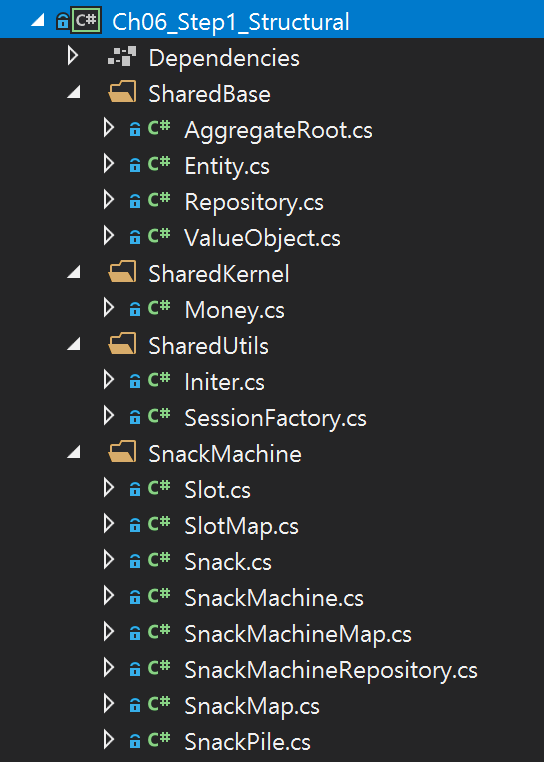
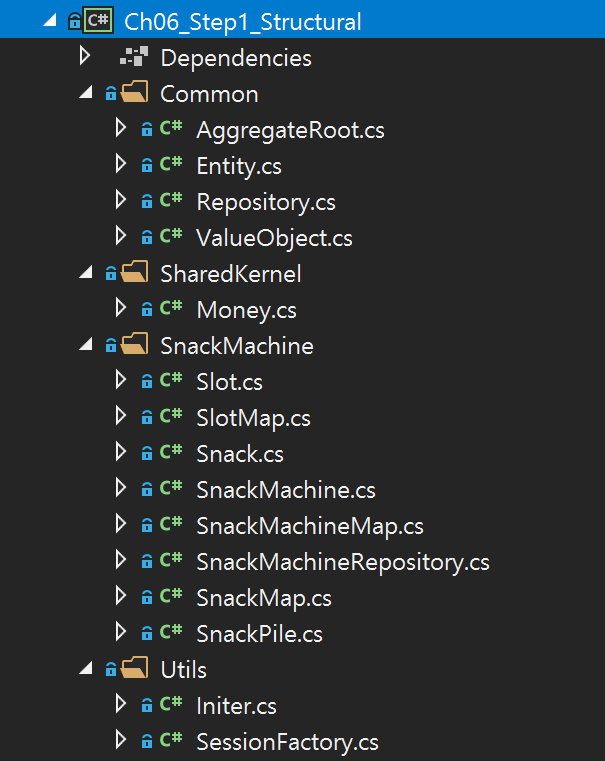
용어 변경

Changed region(s): [[0.0625, 0.0, 0.875, 0.9974], [0.125, 0.5742, 0.1562, 0.6045]]

diff --git a/2.Lectures/DDD/DddInPractice/Ch06/README.md b/2.Lectures/DDD/DddInPractice/Ch06/README.md
@@ -37,8 +37,8 @@
      <img src="./Images/SolutionExplorer.png" width="40%"/>
    - 리팩토링 후
      - **`Shared Kernel(Context Map)`** : 재사용 도메인 객체(예. Entity, Value Object, ...)
-     - `Shared Base` : 재사용 부모 클래스
-     - `Shared Utils` : 재사용 기능 클래스  
+     - `Common` : 재사용 부모 클래스
+     - `Utils` : 재사용 기능 클래스  
      <img src="./Images/StructuralSolutionExplorer.png" width="40%"/>
 
 ### Step 2. ATM(Bounded Context)
